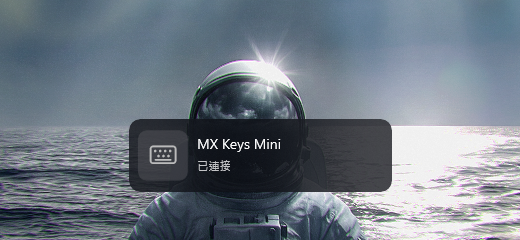
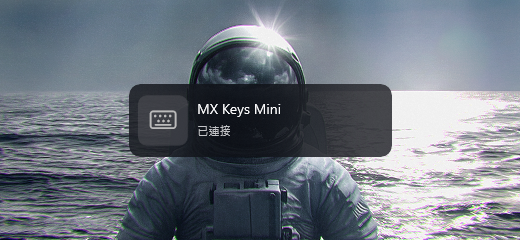
fix(assets): align native OSD screenshot crops around fixed card center
Re-crop Wi-Fi, network interface, Bluetooth keyboard/mouse and Insert
captures directly from the original 1920x1080 screenshots to the same
520x240 region (700,420)-(1220,660). Preserve Mihomo title masking.
Existing clipboard screenshots already match this anchor; unchanged.
Document the crop origin to prevent future misaligned additions.

diff --git a/README.md b/README.md
@@ -6,6 +6,8 @@ Screenshots and other documentation assets for [reg-chen/windhawk-mods](https://
 
 Actual Windows 11 captures, cropped to **520 × 240 pixels** without resizing or synthetic image generation. Screenshots are grouped by feature, with descriptive filenames rather than sequence numbers.
 
+**Crop alignment:** For the available 1920 × 1080 source screenshots of clipboard, network, Bluetooth keyboard/mouse and Insert events, use the same source crop rectangle `(700, 420)–(1220, 660)` so the OSD card sits at the same center point `(260, 120)` within each output. Do not reuse a fixed crop on different resolutions without checking the OSD anchor. The generic network-interface example has its application title obscured; the connection-status text is unchanged.
+
 ### Volume, media and mixer
 
 | Horizontal volume + media | Vertical volume + media |
